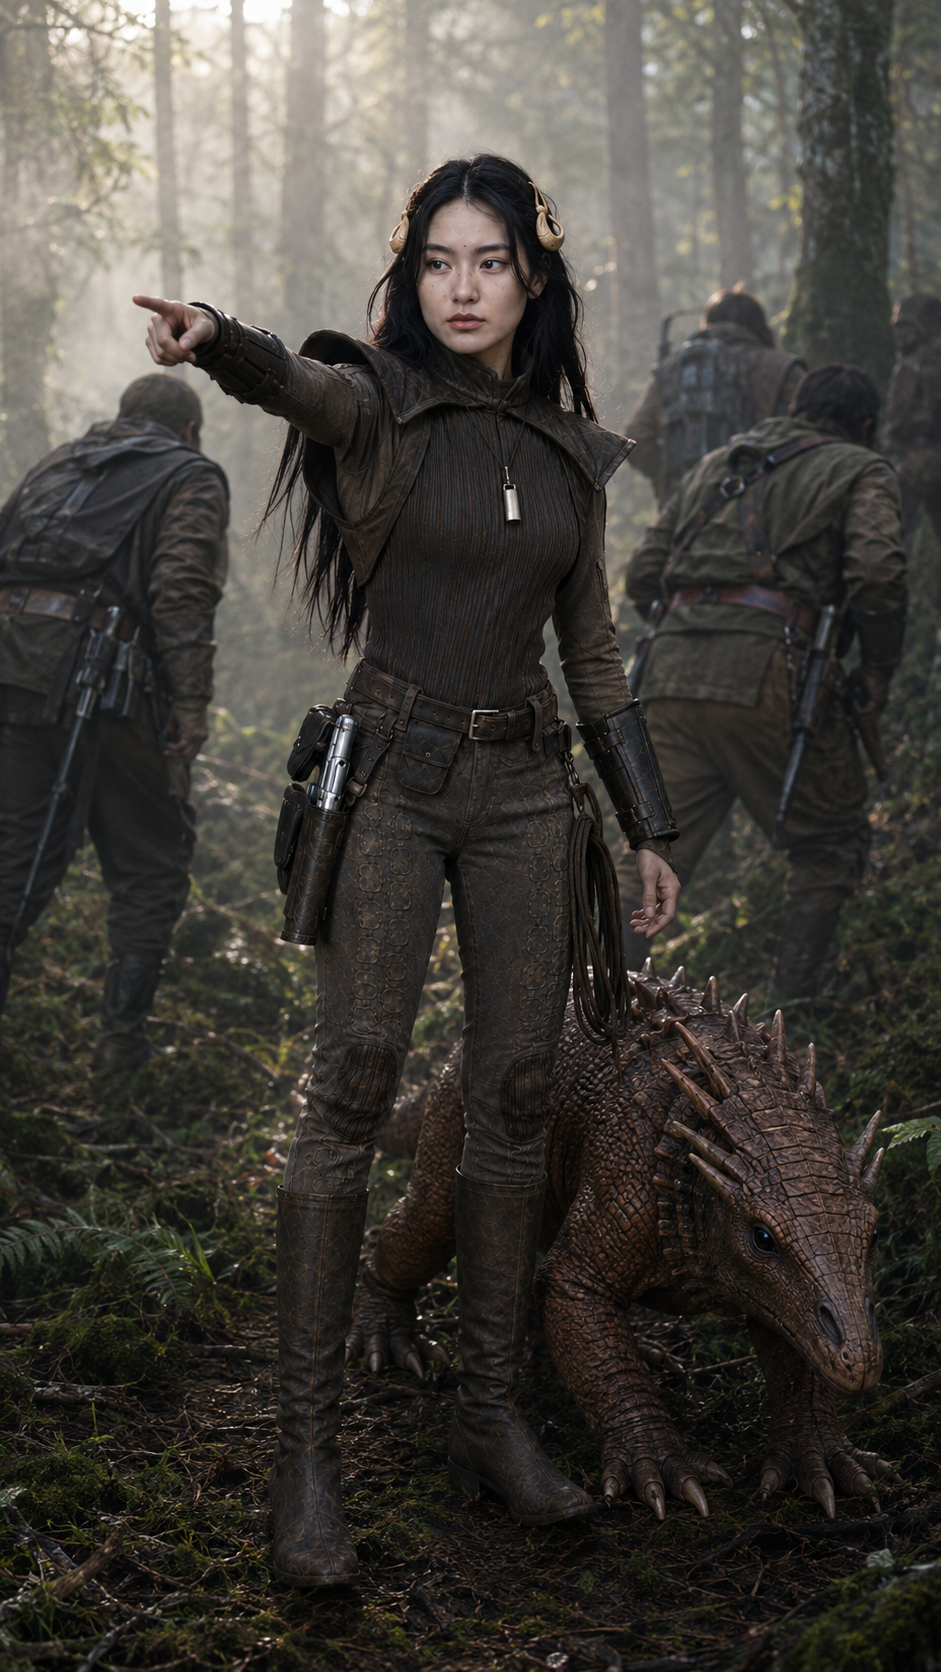
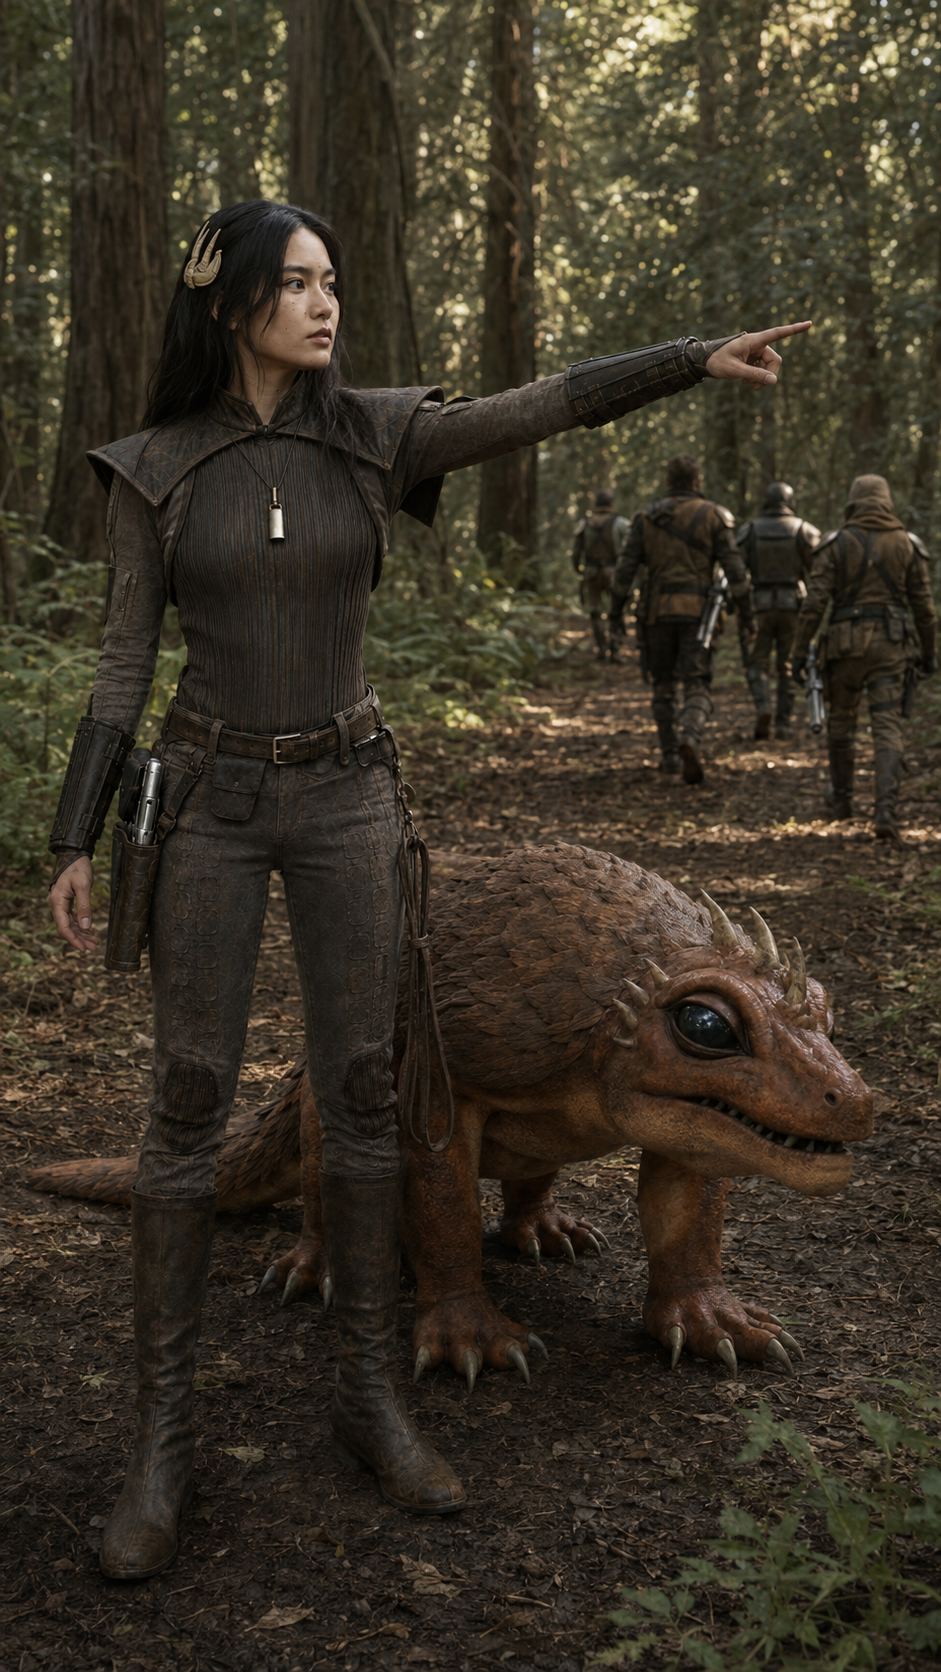
prompts(captain-jasu): regenerate

diff --git a/11-production-tracking/Jasu-Image-TODO.md b/11-production-tracking/Jasu-Image-TODO.md
@@ -1,7 +1,7 @@
 ---
 title: "Captain Jasu — Finish List"
 asset_id: "TRACK-JASU-IMAGES"
-updated: "2026-08-03"
+updated: "2026-08-04"
 status: "open"
 ---
 
@@ -9,8 +9,11 @@ status: "open"
 
 > # PICK UP HERE — 2026-08-04
 >
-> **7 images left. Every prompt is current; nothing needs editing before you
+> **5 images left. Every prompt is current; nothing needs editing before you
 > generate.** Fresh chat each, save under the exact `Output file:` name.
+>
+> **`04-captaining` and `06-portrait` came in on 2026-08-04 and are both
+> released** — see the two RELEASED notes in `../03-characters/captain-jasu/do-not-publish.txt`.
 >
 > ## Attachments — READ THIS, IT CHANGED
 >
@@ -24,16 +27,24 @@ status: "open"
 > | *(`03-camp_day`)* | `prompts/attach/field/03-camp_day/` | 5 |
 > | **everything else** | `prompts/attach/field/` | 3 |
 >
-> ## The 7
+> ## The 5
 >
-> **Re-rolls — all four failed for a reason that is now fixed in the prompt:**
+> **Re-rolls — both failed for a reason that is now fixed in the prompt:**
 >
 > | Paste | Why it failed |
 > |---|---|
-> | `04-captaining.txt` | Drew a **generic dog**. The slot never said what an akk is, and no creature plate was attached. Both fixed |
 > | `07-headdress.txt` | Came back with a **half-up knot** because this slot still carried the *superseded* "swept UP AND BACK, a BUILT shape" hair. My miss. Now says worn down |
-> | `06-portrait.txt` | **Symmetric horns** and a mantle lattice. Neither was mentioned in the slot, so both were left to `must_show` and lost |
-> | `08-expression_strip.txt` | Same two faults, same fix |
+> | `08-expression_strip.txt` | **Symmetric horns** and a mantle lattice, the same two faults `06-portrait` had. The identical fix is already in the slot and it worked on the portrait |
+>
+> ~~`04-captaining.txt`~~ · ~~`06-portrait.txt`~~ — **both done 2026-08-04.**
+> The portrait is the proof that **putting the mantle-surface text in the slot
+> beats the attached photograph at close crop.** `08-expression_strip` carries
+> the same paragraph, so expect it to hold there too. Its horns differ in shape
+> but sit at matched height over each ear, which still reads faintly like a
+> headset — accepted for a make-up plate. **If that bothers you in
+> `07-headdress`, where the horns are the subject, the lever is placement — set
+> them at different heights, or one long sweep against two short points — not
+> more adjectives.**
 >
 > **Not yet generated:**
 >
@@ -269,7 +280,8 @@ status: "open"
 > right), `material_cloth`, `material_leather`, `material_hardware`, `hero`,
 > `camp_day`.
 >
-> - [ ] **`captaining` — WRONG ANIMAL. Re-roll.** It shows a large canid with a
+> - [x] **RESOLVED 2026-08-04 — re-rolled correct on the third pass.**
+>       ~~**`captaining` — WRONG ANIMAL. Re-roll.**~~ It showed a large canid with a
 >       harness. The akk is a low-slung reptile with pebbled scale, a plated
 >       spiked crest and brow horns — `camp_day`, generated seven minutes
 >       earlier, has it right. **And the animal appears leashed**, which
@@ -299,6 +311,17 @@ status: "open"
 >       surface. **So any slot where the mantle is large in frame needs the same
 >       emphasis in its own shot text** — the `must_show` rule alone does not beat
 >       the photograph at close crop.
+>
+>       **CONFIRMED 2026-08-04 on `portrait`.** The surface paragraph went into
+>       the slot and the lattice did not come back — irregular branching crazing,
+>       heavier at the shoulder fold, no repeat. Two for two. `07-headdress` and
+>       `08-expression_strip` carry the same paragraph.
+>
+>       **The horns are the one that only half held.** The portrait's differ in
+>       shape but sit at matched height over each ear, so the pair still reads
+>       faintly like a headset. Accepted on a make-up plate. **The rule describes
+>       shape and the failure is placement** — if it needs tightening, say
+>       different heights, or one long sweep against two short points.
 >
 > ### Open on her, 2026-08-03
 >

diff --git a/03-characters/captain-jasu/Prompts.md b/03-characters/captain-jasu/Prompts.md
@@ -398,6 +398,20 @@ age. Never polished, never carved, never set in metal. A trophy, not jewellery.
 **NOT a helmet, NOT a crown, NOT a circlet, NOT a metal band.** Nothing covers her
 face or her brow.
 
+**THE MANTLE SURFACE CARRIES WEAR, NEVER DECORATION.** Fine **irregular**
+crazing and cracking in worn leather-like cloth — heavier where it flexes and
+rubs, never the same twice. **NO quilting, NO lattice, NO regular cross-hatch
+or triangular grid, NO tooling, NO embossing, NO repeating texture.** At close
+crop the model regularises the crazing in the attached photograph into a grid
+unless this is said here — the `must_show` rule alone does not beat the
+photograph at this distance.
+
+> *Added 2026-08-04, and this slot is the controlled experiment that proves the
+> paragraph is what decides it. `mantle_detail` and `portrait` carry it and both
+> came back with correct irregular crazing. This slot did not carry it and came
+> back **diamond-quilted**, with stitch lines, from the same attached reference.
+> Two for two with, four for four without.*
+
 ## 8. `expression_strip.png` — performance range
 **Landscape, 16:9.**
 

diff --git a/REPO-STATE.md b/REPO-STATE.md
@@ -1,12 +1,12 @@
 # Repository state
 
-**Stamped 2026-08-04 12:07 UTC** — automatically, by `tools/hooks/pre-commit`, at the moment of
+**Stamped 2026-08-04 12:33 UTC** — automatically, by `tools/hooks/pre-commit`, at the moment of
 the commit that contains this file.
 
 | | |
 |---|---|
 | Branch | `main` |
-| Commit before this one | `006e17a` |
+| Commit before this one | `07c7d43` |
 | Screenplay | `the-price-of-freedom-v10.fountain` |
 | Character folders | 12 |
 | Generated prompt files | 271 |
